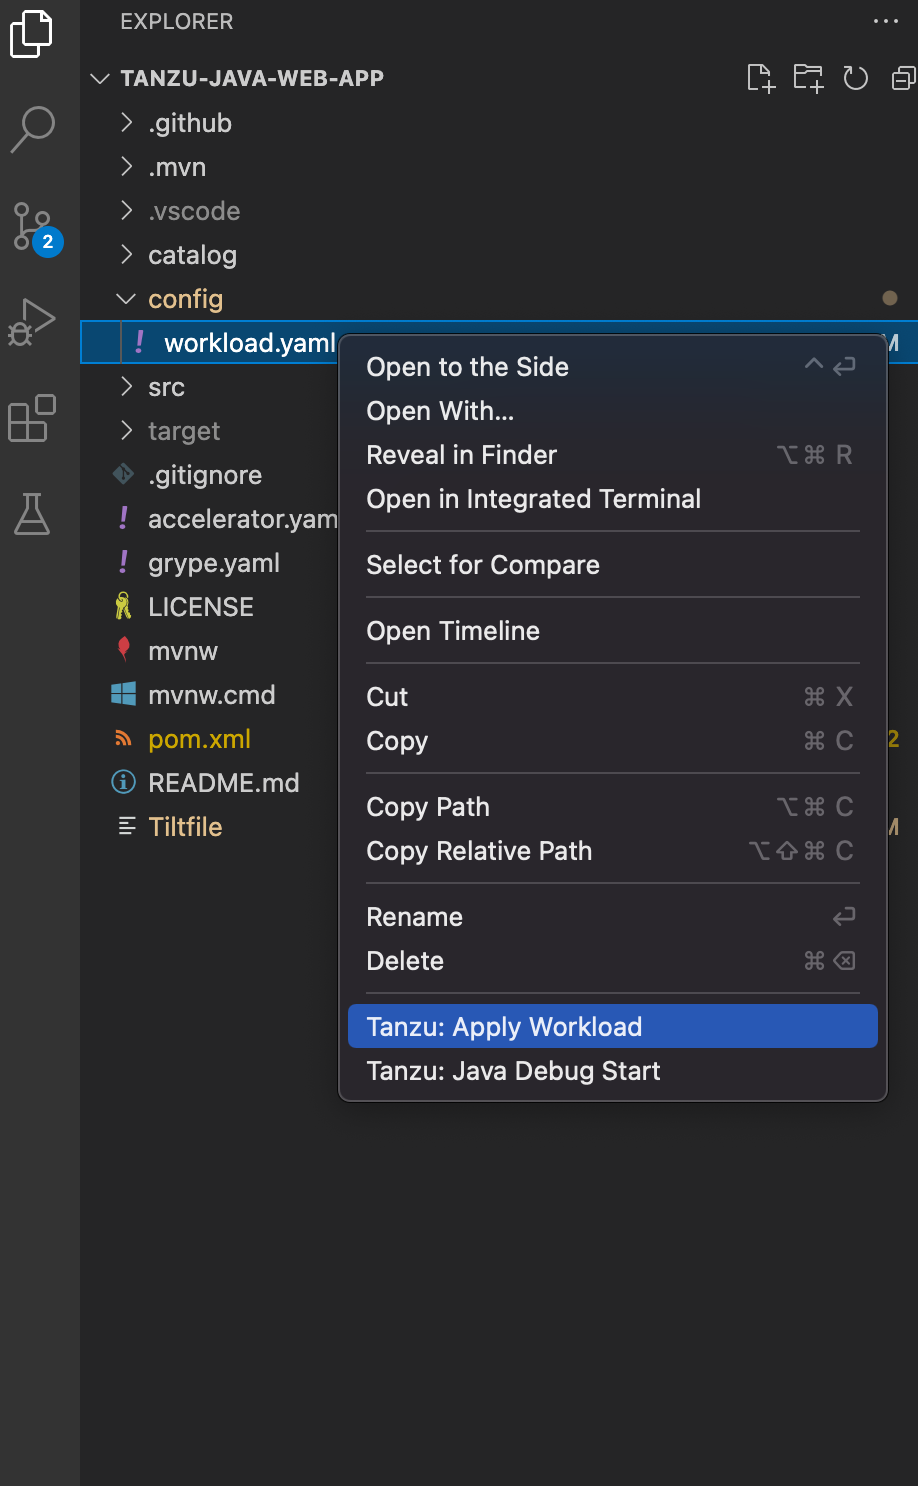
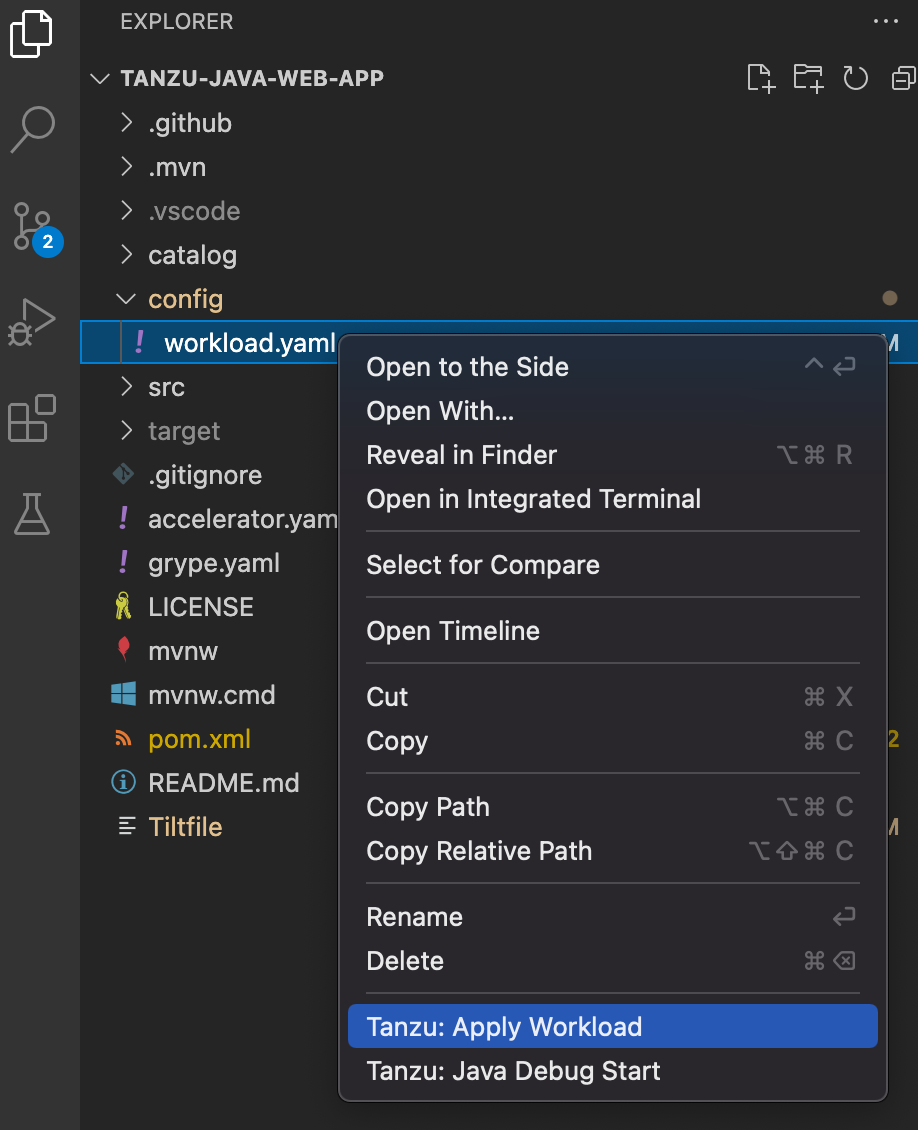
[#182350932] Add punctuation and crop image

diff --git a/vscode-extension/using-the-extension.md b/vscode-extension/using-the-extension.md
@@ -57,13 +57,13 @@ To apply a workload from the command palette:
     The workload panel shows the workloads running in the namespace that is defined in the current
     Kubernetes context.
 
-1. (Optional) See the context and namespace currently configured by running
+1. (Optional) See the context and namespace currently configured by running:
 
     ```console
     kubectl config get-contexts
     ```
 
-1. (Optional) Set a namespace for the current context by running
+1. (Optional) Set a namespace for the current context by running:
 
     ```console
     kubectl config set-context --current --namespace=YOUR-NAMESPACE
